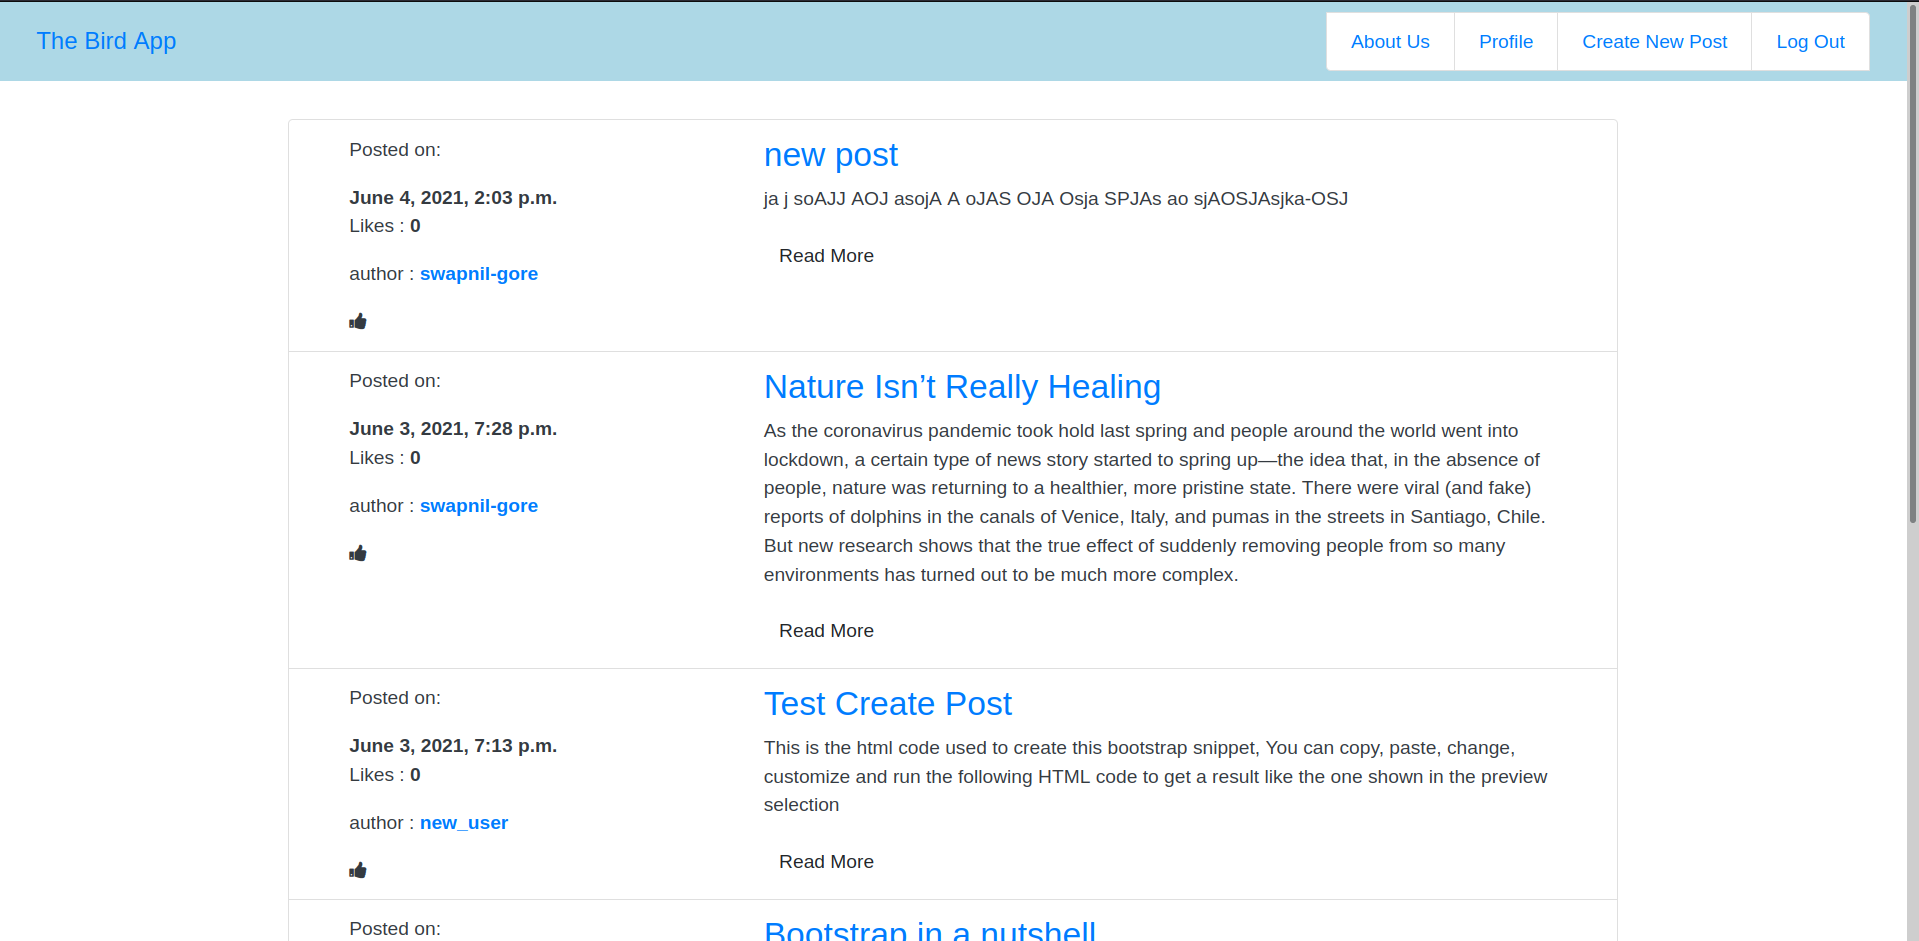
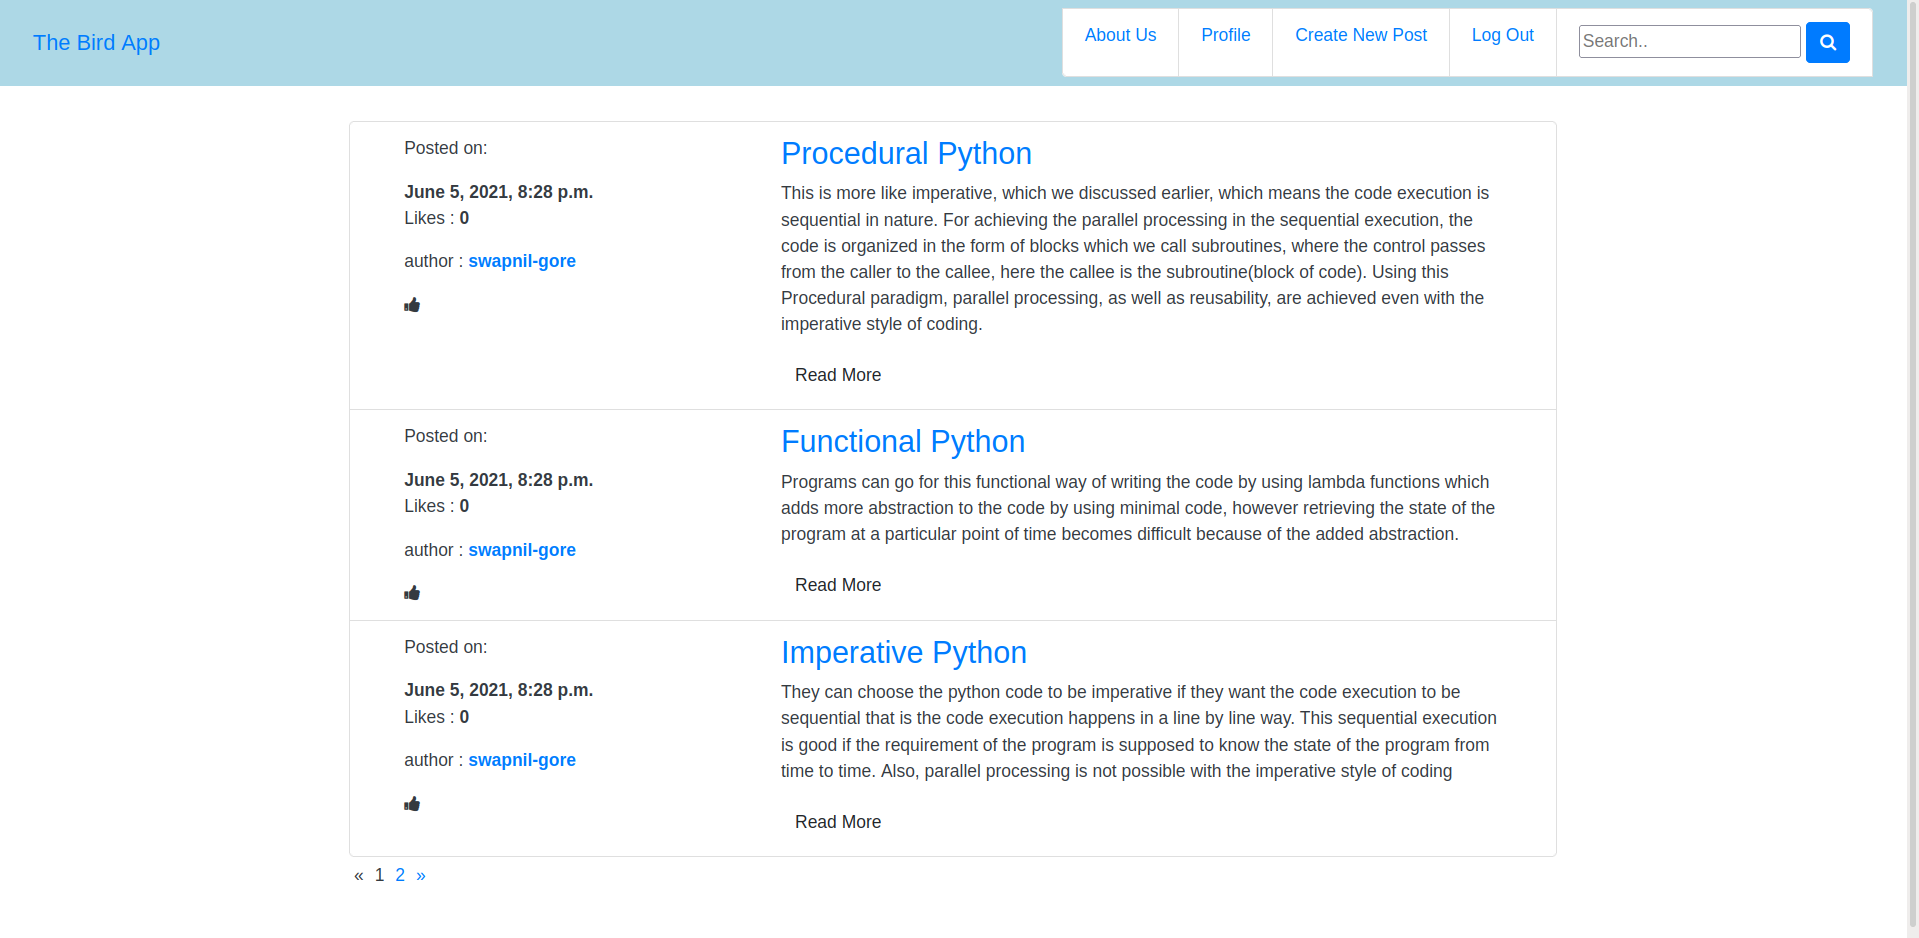
added search functionality

diff --git a/templates/search_post.html b/templates/search_post.html
@@ -1,0 +1,78 @@
+{% extends 'base.html' %}
+
+{% block content %}
+{% if user.is_authenticated %}
+<h2>Found {{ results|length  }} search results for {{ query }}</h2>
+<ul class = "list-group">
+{% for post in results %}
+<li class = "list-group-item">
+<div class="container">
+    <div class="col-md-12 col-lg-12">
+        <article class="post vt-post">
+            <div class="row">
+                <div class="col-xs-12 col-sm-5 col-md-5 col-lg-4">
+                    <div class="author-info author-info-2">
+                        <ul class="list-inline">
+                            <li>
+                                <div class="info">
+                                    <p>Posted on:</p>
+                                    <strong>{{ post.datePosted }}</strong></div>
+                            </li>
+                            <li>
+                                <div class="info">
+                                    <p>Likes : <strong>{{ post.likes }}</strong></p>
+                            </li>
+                            <li>
+                                <div class="info">
+                                    <p>author : <strong><a href="{% url 'user_detail' post.authorID.id %}">{{ post.authorID.username }}</a></strong></p>
+                            </li>
+                            <li>
+                                <div class="info">
+                                <i onclick="myFunction(this)" class="fa fa-thumbs-up"></i>
+                                <script>
+                                function myFunction(x) {
+                                    x.classList.toggle("fa-thumbs-down");
+                                }
+                                </script>
+                            </li>
+                        </ul>
+                    </div>
+                </div>
+                <div class="col-xs-12 col-sm-7 col-md-7 col-lg-8">
+                    <div class="caption">
+                        <h3 class="md-heading"><a href="#">{{ post.title }}</a></h3>
+                        <p> {{ post.body }} </p>
+                        <a class="btn btn-default" href="#" role="button">Read More</a> </div>
+                </div>
+            </div>
+        </article>
+</li>
+{% endfor %}
+</ul>
+{% if is_paginated %}
+  <ul class="pagination">
+    {% if page_obj.has_previous %}
+      <li><a href="?page={{ page_obj.previous_page_number }}">&laquo;</a></li>
+    {% else %}
+      <li style="padding:5px" class="disabled"><span>&laquo;</span></li>
+    {% endif %}
+    {% for i in paginator.page_range %}
+      {% if page_obj.number == i %}
+        <li style="padding:5px" class="active"><span>{{ i }} <span class="sr-only">(current)</span></span></li>
+      {% else %}
+        <li style="padding:5px"><a href="?page={{ i }}">{{ i }}</a></li>
+      {% endif %}
+    {% endfor %}
+    {% if page_obj.has_next %}
+      <li style="padding:5px"><a href="?page={{ page_obj.next_page_number }}">&raquo;</a></li>
+    {% else %}
+      <li style="padding:5px" class="disabled"><span>&raquo;</span></li>
+    {% endif %}
+  </ul>
+{% endif %}
+</div>
+{% else %}
+<h1><a href = "{% url 'login' %}">Please login first</a><h1>
+<h1><a href = "{% url 'signup' %}">If you don't have account, please sign up</a><h1>
+{% endif %}
+{% endblock content %}

diff --git a/templates/base.html b/templates/base.html
@@ -11,6 +11,7 @@
   <script src="https://cdnjs.cloudflare.com/ajax/libs/popper.js/1.16.0/umd/popper.min.js"></script>
   <script src="https://maxcdn.bootstrapcdn.com/bootstrap/4.5.2/js/bootstrap.min.js"></script>
   <link rel="stylesheet" href="https://cdnjs.cloudflare.com/ajax/libs/font-awesome/4.7.0/css/font-awesome.min.css">
+<script src="//cdnjs.cloudflare.com/ajax/libs/jquery/3.2.1/jquery.min.js"></script>
 </head>
 <body>
 <div>
@@ -25,6 +26,14 @@
         <li class="list-group-item"><a href="{% url 'user_detail'  user.id %}">Profile</a></li>
         <li class="list-group-item"><a href="{% url 'post_create' %}">Create New Post</a></li>
         <li class="list-group-item"><a href="{% url 'logout' %}">Log Out</a></li>
+        <li class="list-group-item">
+          <div class="search-container">
+            <form action = {% url 'search_post' %}>
+              <input type="text" placeholder="Search.." name="search">
+              <button type="submit" class = "btn btn-primary"><i class="fa fa-search"></i></button>
+            </form>
+          </div>
+        </li>
     {% endif %}
     </ul>
   </div>

diff --git a/bird_app/views.py b/bird_app/views.py
@@ -4,6 +4,7 @@ from django.views import View
 from django.views.generic import CreateView, DetailView, ListView
 from .forms import CustomUserCreationForm, PostForm
 from .models import CustomUser, Post
+from django.contrib.postgres.search import SearchVector
 
 class UserDetailView(DetailView):
     template_name = 'user_detail.html'
@@ -24,6 +25,7 @@ class PostListView(ListView):
     paginate_by = 3
     template_name = 'home.html'
 
+
 class PostCreateView(View):
     form_class = PostForm
     template_name = 'postCreate.html'
@@ -43,3 +45,9 @@ class PostCreateView(View):
     def get(self, request, *args, **kwargs):
         form = self.form_class()
         return render(request, self.template_name, {'form' : form})
+
+class SearchView(ListView):
+    def get(self, request, *args, **kwargs):
+        query = request.GET['search']
+        results = Post.objects.annotate(search=SearchVector('title', 'body'),).filter(search=query)
+        return render(request, 'search_post.html', {'results': results, 'query' : query}, )

diff --git a/bird_app/urls.py b/bird_app/urls.py
@@ -1,5 +1,5 @@
 from django.urls import path
-from .views import SignUpView, UserDetailView, PostListView, PostCreateView
+from .views import SignUpView, UserDetailView, PostListView, PostCreateView, SearchView
 from django.views.generic.base import TemplateView
 
 urlpatterns = [
@@ -7,5 +7,6 @@ urlpatterns = [
     path('profile/<int:pk>/', UserDetailView.as_view(), name='user_detail'),
     path('createPost/', PostCreateView.as_view(), name = 'post_create'),
     path('', PostListView.as_view(), name = 'home'),
+    path('post/searchPost/', SearchView.as_view(), name = 'search_post'),
     #path('createPost/<int:pk>/', PostCreateView.as_view(), name = 'post_create'),
 ]

diff --git a/README.md b/README.md
@@ -5,10 +5,11 @@ A simple Twitter clone made with Django and some bootstrap.
 - User Auth with Custom User Model
 - Postgres Backend 
 - Paginated posts view
+- Search Posts by keywords
 
 <p float="left">
 <img src="/assets/homePage.png" >
 &nbsp; &nbsp; &nbsp;
-<img src="/assets/createPost.png" >
+<img src="/assets/searchPost.png" >
 </p>
 
